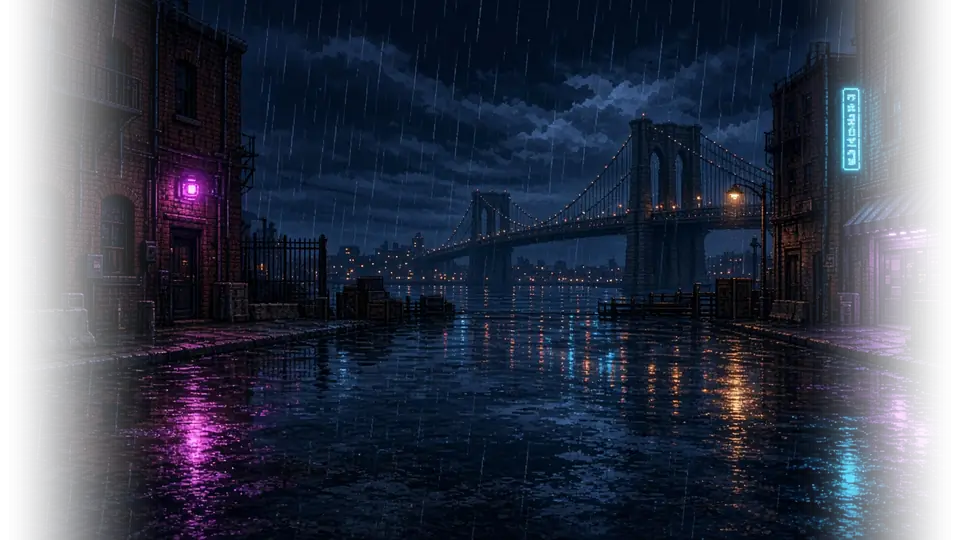
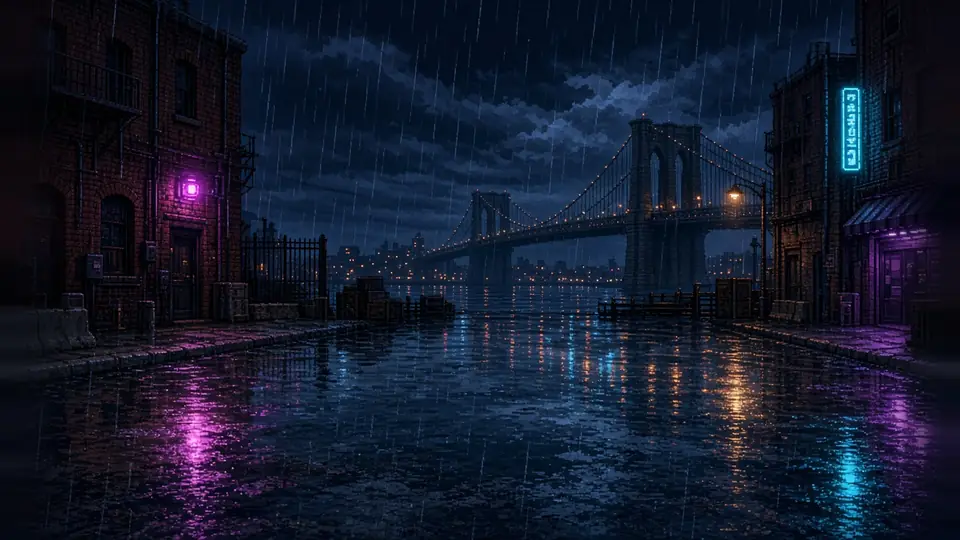
Fix AI-plate seams: tone-matched haze fade instead of crossfade ghosting; lift dark floors (airfield, canopy, waterfall, reptile) + lane light; QA tools + tests

Changed region(s): [[0.8438, 0.0, 1.0, 1.0], [0.0, 0.0, 0.1562, 1.0], [0.625, 0.6815, 0.6562, 0.7111]]

diff --git a/js/bgscreens.js b/js/bgscreens.js
@@ -27,7 +27,7 @@ export const SCREENS = {
       { name: 'Food Court', top: rgb(255, 232, 208), bot: rgb(255, 238, 218), warm: [255, 150, 40, 0.06], lm: [['stand', 40, '#e0a020', '#fff2d0', 'FOOD'], ['stand', 150, '#c8321e', '#f2e6c8', 'DRINKS'], ['bench', 250], ['lights', 20, 300, 66]], lights: [[60, 62, 26, [255, 190, 90], 1], [170, 62, 26, [255, 190, 90], 1]] },
       { name: 'Lion House', plate: 'zoo-lion', top: rgb(228, 196, 232), bot: rgb(238, 224, 236), lm: [['bench', 236]], lights: [], },
       { name: 'Primate World', top: rgb(190, 184, 232), bot: rgb(214, 214, 240), stars: 0.35, lm: [['tree', 40, 70], ['tree', 280, 78], ['sign', 150, 'PRIMATE WORLD', '#2a5a30', '#d8ffb0'], ['bush', 220, 22, '#1a4a30']], lights: [] },
-      { name: 'Night Path', plate: 'zoo-reptile', top: rgb(120, 128, 196), bot: rgb(158, 168, 214), stars: 0.9, fog: 0.22, lm: [['bush', 26, 26, '#142e24'], ['bush', 296, 24, '#142e24']], lights: [] },
+      { name: 'Night Path', plate: 'zoo-reptile', lift: 0.08, top: rgb(120, 128, 196), bot: rgb(158, 168, 214), stars: 0.9, fog: 0.22, lm: [['bush', 26, 26, '#142e24'], ['bush', 296, 24, '#142e24']], lights: [] },
       { name: 'Zoo Exit', top: rgb(92, 104, 176), bot: rgb(140, 152, 204), stars: 1, fog: 0.3, warm: [255, 40, 60, 0.04], lm: [['bus', 220], ['sign', 70, 'EXIT', '#7a1a1a', '#ffe6e0'], ['lamp', 20, '#ff9a7a'], ['cone', 150], ['cone', 168]], lights: [[20, 70, 30, [255, 150, 120], 1]], siren: 1 },
     ],
   },
@@ -63,7 +63,7 @@ export const SCREENS = {
       { name: 'Motor Pool', top: rgb(255, 214, 196), bot: rgb(255, 226, 210), lm: [['jeep', 60], ['drums', 190, 3], ['sign', 262, 'MOTOR POOL', '#3a3a20', '#ffe6a0']], lights: [], beams: 0.4 },
       { name: 'Barracks', top: rgb(238, 190, 180), bot: rgb(246, 214, 204), lm: [['tent', 30, 78], ['tent', 150, 70], ['tent', 262, 74]], lights: [[70, 90, 24, [255, 200, 110], 1]], beams: 0.6, stars: 0.2 },
       { name: 'Fuel Depot', top: rgb(210, 160, 170), bot: rgb(226, 196, 196), lm: [['tank', 40], ['drums', 140, 5], ['sign', 232, 'FUEL', '#6a1a10', '#ffe0a0'], ['wire', 270]], lights: [], beams: 0.8, stars: 0.4 },
-      { name: 'Airfield', plate: 'base-airfield', top: rgb(160, 130, 170), bot: rgb(196, 176, 196), stars: 0.55, lm: [['sandbags', 230, 3]], lights: [], beams: 0.9 },
+      { name: 'Airfield', plate: 'base-airfield', lift: 0.13, top: rgb(160, 130, 170), bot: rgb(196, 176, 196), stars: 0.55, lm: [['sandbags', 230, 3]], lights: [], beams: 0.9 },
       { name: 'Wire Line', top: rgb(130, 112, 160), bot: rgb(176, 160, 186), stars: 0.7, fog: 0.2, lm: [['wire', 10], ['wire', 120], ['sign', 232, 'KEEP OUT', '#7a1010', '#ffffff'], ['sandbags', 290, 3]], lights: [], beams: 1 },
       { name: 'Bunker Row', top: rgb(106, 100, 150), bot: rgb(156, 150, 180), stars: 0.85, fog: 0.26, lm: [['bunker', 20], ['bunker', 170], ['lamp', 300, '#ff9a7a']], lights: [[300, 70, 30, [255, 150, 120], 1]], beams: 1 },
       { name: 'Command HQ', top: rgb(86, 84, 140), bot: rgb(140, 138, 176), stars: 1, fog: 0.3, warm: [255, 30, 40, 0.05], lm: [['hq', 30], ['flag', 210], ['sandbags', 270, 4]], lights: [[120, 60, 40, [255, 90, 90], 1]], beams: 1, siren: 1 },
@@ -76,9 +76,9 @@ export const SCREENS = {
       { name: 'Vine Thicket', top: rgb(190, 215, 175), bot: rgb(220, 235, 210), motes: 0.4, lm: [['vines', 20, 8], ['vines', 100, 6], ['vines', 200, 9], ['fern', 150], ['fern', 290]], lights: [] },
       { name: 'River Ford', top: rgb(175, 210, 215), bot: rgb(210, 232, 232), fog: 0.3, lm: [['rocks', 40], ['water', 120, 130], ['rocks', 270]], lights: [] },
       { name: 'Old Ruins', top: rgb(215, 215, 175), bot: rgb(232, 230, 200), lm: [['pillar', 30, 96], ['pillar', 100, 70], ['totem', 220], ['fern', 290]], lights: [[220, 70, 30, [255, 220, 120], 1]] },
-      { name: 'Dark Canopy', plate: 'jungle-canopy', top: rgb(120, 160, 130), bot: rgb(166, 196, 164), fog: 0.2, motes: 0.9, lm: [['fern', 30], ['fern', 290]], lights: [], flies: 1 },
+      { name: 'Dark Canopy', plate: 'jungle-canopy', lift: 0.12, top: rgb(120, 160, 130), bot: rgb(166, 196, 164), fog: 0.2, motes: 0.9, lm: [['fern', 30], ['fern', 290]], lights: [], flies: 1 },
       { name: 'Glow Cave', top: rgb(110, 140, 170), bot: rgb(160, 186, 196), fog: 0.25, motes: 0.7, lm: [['glowflower', 30], ['glowflower', 90], ['glowflower', 200], ['glowflower', 270], ['rocks', 150]], lights: [[34, 112, 28, [140, 220, 255], 1], [94, 112, 28, [200, 150, 255], 1], [204, 112, 28, [140, 220, 255], 1], [274, 112, 28, [200, 150, 255], 1]], flies: 1 },
-      { name: 'Waterfall Mist', plate: 'jungle-waterfall', top: rgb(190, 225, 235), bot: rgb(215, 238, 240), fog: 0.22, lm: [['rocks', 300]], lights: [] },
+      { name: 'Waterfall Mist', plate: 'jungle-waterfall', lift: 0.08, top: rgb(190, 225, 235), bot: rgb(215, 238, 240), fog: 0.22, lm: [['rocks', 300]], lights: [] },
       { name: 'Temple Approach', top: rgb(246, 226, 160), bot: rgb(250, 238, 200), warm: [255, 200, 60, 0.06], motes: 0.6, lm: [['totem', 30], ['totem', 270], ['pillar', 150, 100]], lights: [[160, 60, 50, [255, 210, 110], 1]] },
       { name: 'Home Clearing', top: rgb(255, 238, 190), bot: rgb(255, 246, 214), warm: [255, 210, 90, 0.09], motes: 0.8, lm: [['fern', 20], ['fern', 120], ['fern', 220], ['fern', 300], ['sign', 150, 'HOME', '#4a3a10', '#ffe890']], lights: [[160, 50, 60, [255, 230, 130], 1]] },
     ],
@@ -104,7 +104,7 @@ export function lookAt(kind, stops, cam) {
   const S = SCREENS[kind].screens, { i, j, t } = screenPos(stops, cam), a = S[i], b = S[j];
   const w = (x, y) => lerp(x || 0, y || 0, t), wa = a.warm || [0, 0, 0, 0], wb = b.warm || [0, 0, 0, 0];
   return { i, j, t, top: lerp3(a.top, b.top, t), bot: lerp3(a.bot, b.bot, t), warm: [lerp(wa[0], wb[0], t), lerp(wa[1], wb[1], t), lerp(wa[2], wb[2], t), w(wa[3], wb[3])],
-    fog: w(a.fog, b.fog), stars: w(a.stars, b.stars), rain: w(a.rain, b.rain), motes: w(a.motes, b.motes), beams: w(a.beams, b.beams), siren: w(a.siren, b.siren), flies: w(a.flies, b.flies), blink: w(a.blink, b.blink) };
+    fog: w(a.fog, b.fog), stars: w(a.stars, b.stars), rain: w(a.rain, b.rain), motes: w(a.motes, b.motes), beams: w(a.beams, b.beams), siren: w(a.siren, b.siren), flies: w(a.flies, b.flies), blink: w(a.blink, b.blink), lift: w(a.lift, b.lift) };
 }
 /** Stable signature of a screen's look, used by tests to count distinct looks. */
 export function signature(kind, idx, stops) {

diff --git a/js/bg.js b/js/bg.js
@@ -31,11 +31,31 @@ function plate(ctx, im, kind, cam) {
     });
   }
 }
-/** AI-painted plate for a landmark screen: drawn over the stage plate at its camera stop, soft-faded at both edges (baked alpha). */
+/** Haze strip that the neighbouring (old) plate fades into just outside an AI plate's edge: the plate's own per-row edge colour,
+ * alpha ramping 0 -> HAZE_A towards the edge. The plate itself ramps out of the same colour (baked in), so a slide goes
+ * old plate -> haze -> new plate with no two scenes overlapping (no ghosting). */
+const HZ = 30, HAZE_A = 0.94, hazeCache = {};
+function hazeStrip(kind, name, side) {
+  const key = kind + name + side; if (hazeCache[key]) return hazeCache[key];
+  const rows = A.bgMeta[kind].haze[name][side], n = rows.length, t = document.createElement('canvas'); t.width = 1; t.height = n;
+  const tc = t.getContext('2d'), id = tc.createImageData(1, n); rows.forEach((c, i) => { id.data.set([c[0], c[1], c[2], 255], i * 4); }); tc.putImageData(id, 0, 0);
+  const c = document.createElement('canvas'); c.width = HZ; c.height = 180; const g = c.getContext('2d'); g.imageSmoothingEnabled = true; g.drawImage(t, 0, 0, 1, n, 0, 0, HZ, 180);
+  const gr = g.createLinearGradient(0, 0, HZ, 0), e = side === 'l' ? 1 : 0; // alpha is highest at the plate edge
+  for (let i = 0; i <= 8; i++) { const u = i / 8, s = u * u * (3 - 2 * u); gr.addColorStop(u, `rgba(0,0,0,${HAZE_A * (e ? s : 1 - s)})`); }
+  g.globalCompositeOperation = 'destination-in'; g.fillStyle = gr; g.fillRect(0, 0, HZ, 180);
+  return hazeCache[key] = c;
+}
+/** AI-painted plate for a landmark screen: drawn over the stage plate at its camera stop. Its edges ramp out of a haze colour
+ * (baked), and the neighbouring plate is hazed over to the same colour right outside the edge. */
 function featured(ctx, L, kind, stops, cam) {
   if (!L.x) return;
   const scr = SCREENS[kind].screens;
-  for (let i = 0; i < stops.length; i++) { const p = scr[i].plate; if (!p || !L.x[p]) continue; const x = stops[i] - cam; if (x > W || x + TILE_W < 0) continue; ctx.drawImage(L.x[p], Math.round(x * S) / S, 0, TILE_W, 180); }
+  for (let i = 0; i < stops.length; i++) {
+    const p = scr[i].plate; if (!p || !L.x[p]) continue; const x = stops[i] - cam; if (x > W + HZ || x + TILE_W + HZ < 0) continue;
+    const xr = Math.round(x * S) / S;
+    ctx.drawImage(hazeStrip(kind, p, 'l'), xr - HZ, 0); ctx.drawImage(hazeStrip(kind, p, 'r'), xr + TILE_W, 0);
+    ctx.drawImage(L.x[p], xr, 0, TILE_W, 180);
+  }
 }
 const stopsCache = new WeakMap();
 const stopsFor = st => stopsCache.get(st) || (stopsCache.set(st, stopsOf(st)), stopsCache.get(st));

diff --git a/js/bgdraw.js b/js/bgdraw.js
@@ -99,6 +99,10 @@ export function drawGrade(ctx, kind, stops, cam, t, look) {
     ctx.globalCompositeOperation = 'multiply'; ctx.fillStyle = gr; ctx.fillRect(0, 0, 320, 180); ctx.globalCompositeOperation = 'source-over';
   }
   if (look.warm[3] > 0.004) { ctx.globalCompositeOperation = 'lighter'; ctx.fillStyle = `rgba(${look.warm[0] | 0},${look.warm[1] | 0},${look.warm[2] | 0},${look.warm[3]})`; ctx.fillRect(0, 0, 320, 180); ctx.globalCompositeOperation = 'source-over'; }
+  if (look.lift > 0.01) { // soft light across the walk band so heroes and enemies stand out against dark floors (peaks mid-lane, fades above/below)
+    const gr = ctx.createLinearGradient(0, lane[0] - 14, 0, lane[1] + 8); gr.addColorStop(0, 'rgba(255,238,215,0)'); gr.addColorStop(0.5, `rgba(255,238,215,${look.lift})`); gr.addColorStop(1, 'rgba(255,238,215,0)');
+    ctx.globalCompositeOperation = 'lighter'; ctx.fillStyle = gr; ctx.fillRect(0, lane[0] - 14, 320, lane[1] - lane[0] + 22); ctx.globalCompositeOperation = 'source-over';
+  }
   if (look.stars > 0.02) { ctx.fillStyle = '#fff'; for (let i = 0; i < 28; i++) { const px = ((hash(i) * 400 - cam * 0.08) % 320 + 320) % 320, py = 4 + hash(i + 99) * 56; ctx.globalAlpha = look.stars * (0.35 + 0.65 * Math.abs(Math.sin(t * 1.6 + i))) ; ctx.fillRect(Math.round(px), Math.round(py), 1, 1); } ctx.globalAlpha = 1; }
   if (look.beams > 0.02 && kind === 'base') { ctx.globalCompositeOperation = 'lighter'; for (let b = 0; b < 2; b++) { const bx = ((b ? 250 : 60) + b * 40 - cam * 0.2 % 640 + 640) % 640 - 160, a = Math.sin(t * 0.7 + b * 2) * 0.35; ctx.fillStyle = `rgba(255,250,200,${0.13 * look.beams})`; ctx.beginPath(); ctx.moveTo(bx - 2, 44); ctx.lineTo(bx + Math.sin(a) * 130 - 14, -8); ctx.lineTo(bx + Math.sin(a) * 130 + 14, -8); ctx.lineTo(bx + 2, 44); ctx.fill(); } ctx.globalCompositeOperation = 'source-over'; }
   // lights of nearby screens (flicker a little), added after the grade so they stay bright

diff --git a/tests/bgscreens.test.js b/tests/bgscreens.test.js
@@ -53,3 +53,12 @@ test('AI plate assets total under 1.5 MB', () => {
   let n = 0; for (const f of fs.readdirSync(new URL('../assets/bg/', import.meta.url))) if (f.startsWith('x_')) n += fs.statSync(new URL(`../assets/bg/${f}`, import.meta.url)).size;
   assert.ok(n < 1.5 * 1024 * 1024, n);
 });
+
+test('every AI plate has per-row haze colours for both edges (tone-matched fade, no crossfade ghosting) and sane floor lift', () => {
+  const meta = JSON.parse(fs.readFileSync(new URL('../assets/bg/bg.json', import.meta.url)));
+  for (const kind of Object.keys(SCREENS)) for (const s of SCREENS[kind].screens) if (s.plate) {
+    const h = meta[kind].haze?.[s.plate]; assert.ok(h && h.l.length >= 16 && h.r.length === h.l.length, s.plate + ' haze');
+    for (const c of [...h.l, ...h.r]) assert.ok(c.length === 3 && c.every(v => v >= 0 && v <= 255), s.plate + ' haze colour');
+  }
+  for (const [kind, n] of [['base', 'Airfield'], ['jungle', 'Dark Canopy']]) assert.ok(SCREENS[kind].screens.find(s => s.name === n).lift > 0.05, n + ' lift');
+});

diff --git a/tools/ai-art/build_bg.py b/tools/ai-art/build_bg.py
@@ -51,20 +51,45 @@ EXTRA = {
     'base-airfield':    ('base',   0.765),
     'jungle-waterfall': ('jungle', 0.82),  'jungle-canopy':    ('jungle', 0.78),
 }
-FEATHER_X = 168   # device px (56 logic px) soft edge each side
 FLOOR_LIFT = 10   # logic px the plate floor top sits above lane top
+ZONE = 90         # device px (30 logic px): the plate edge ramps out of a matching haze colour over this width
+HAZE_ROWS = 45    # per-row haze colour samples stored in bg.json (runtime fades the neighbouring plate into the same haze)
+# Mean floor luminance (0-255) each plate's walk band is lifted to, so heroes/enemies read against it (stage floors sit at ~25-110).
+FLOOR_LUM = {'zoo-lion': 66, 'zoo-reptile': 72, 'city-stores': 30, 'city-bridge': 34, 'fbi-server': 96, 'fbi-archive': 114,
+             'base-airfield': 84, 'jungle-waterfall': 66, 'jungle-canopy': 78}
+LUMW = np.array([0.2126, 0.7152, 0.0722])
+def lift_floor(a, y0, y1, target):
+    """Raise shadows of rows y0.. with a power curve (keeps hue) until the band's mean luminance reaches target; soft ramp at the top."""
+    f = a.astype(np.float32) / 255; band = slice(y0, y1)
+    if (f[band] @ LUMW).mean() * 255 >= target: return a
+    lo, hi = 0.3, 1.0
+    for _ in range(24):
+        g = (lo + hi) / 2
+        if ((f[band] ** g) @ LUMW).mean() * 255 > target: lo = g
+        else: hi = g
+    out = f ** hi; ramp = np.clip((np.arange(a.shape[0]) - (y0 - 24)) / 24, 0, 1)[:, None, None]
+    return (np.clip(f * (1 - ramp) + out * ramp, 0, 1) * 255).astype(np.uint8)
 total = 0
 for name, (stage, F) in EXTRA.items():
     src = Image.open(f'{SRC}/bgx/{name}.jpg').convert('RGB')
-    sh = src.height; lane_top = meta[stage]['lane'][0]
+    sh = src.height; lane_top, lane_bot = meta[stage]['lane']
     T = (lane_top - FLOOR_LIFT) * 3  # target floor-top row in the 540px output
     fy = int(round(F * sh)); top = src.crop((0, 0, src.width, fy)).resize((W, T), Image.LANCZOS)
     bot = src.crop((0, fy, src.width, sh)).resize((W, H - T), Image.LANCZOS)
     a = np.concatenate([np.array(top), np.array(bot)], 0)
-    t = np.clip(np.arange(W) / FEATHER_X, 0, 1); t = np.minimum(t, t[::-1]); al = (t * t * (3 - 2 * t) * 255).astype(np.uint8)
-    rgba = np.dstack([a, np.tile(al, (H, 1))])
-    f = f'{OUT}/x_{name}.webp'; Image.fromarray(rgba).save(f, quality=72, alpha_quality=80, method=6)
+    a = lift_floor(a, lane_top * 3, min(H, lane_bot * 3 + 10), FLOOR_LUM[name])
+    # per-row haze colour of each side (edge columns, vertically blurred), then ramp the plate edge out of it (tone-matched fade)
+    k = np.ones(15) / 15; hz = {}
+    for side, cols in (('l', a[:, :12]), ('r', a[:, -12:])):
+        c = cols.astype(np.float32).mean(1); c = np.stack([np.convolve(np.pad(c[:, j], 7, mode='edge'), k, 'valid') for j in range(3)], 1)
+        hz[side] = c
+    t = np.clip(np.arange(W) / ZONE, 0, 1); t = np.minimum(t, t[::-1]); sm = (t * t * (3 - 2 * t))[None, :, None]
+    left = hz['l'][:, None, :]; right = hz['r'][:, None, :]; sidew = (np.arange(W) < W / 2)[None, :, None]
+    haze = np.where(sidew, left, right)
+    out = np.clip(a.astype(np.float32) * sm + haze * (1 - sm), 0, 255).astype(np.uint8)
+    f = f'{OUT}/x_{name}.webp'; Image.fromarray(out).save(f, quality=72, method=6)
     meta[stage].setdefault('extra', []).append(name); total += os.path.getsize(f)
+    meta[stage].setdefault('haze', {})[name] = {s: [[int(v) for v in hz[s][r]] for r in np.linspace(0, H - 1, HAZE_ROWS).astype(int)] for s in 'lr'}
     print(name, os.path.getsize(f) // 1024, 'KB')
 print('extras total', total // 1024, 'KB')
 json.dump(meta, open(f'{OUT}/bg.json', 'w'))

diff --git a/tools/qa-bg-pairs.py b/tools/qa-bg-pairs.py
@@ -1,0 +1,33 @@
+# Mid-slide shots of every adjacent screen pair in all 5 stages (cam half-way between two stops) plus both edge crossings of each AI plate
+# (plate edge in the middle of the view = worst case for ghosting). Also measures floor-vs-hero luminance contrast.
+import asyncio, sys, os, json
+from playwright.async_api import async_playwright
+from PIL import Image
+OUT = sys.argv[1]; URL = sys.argv[2]; os.makedirs(OUT, exist_ok=True)
+FEAT = {0: [2, 4], 1: [2, 4], 2: [4, 5], 3: [4], 4: [4, 6]}
+async def main():
+    res = {}
+    async with async_playwright() as pw:
+        b = await pw.chromium.launch()
+        for si in range(5):
+            ctx = await b.new_context(viewport={'width': 844, 'height': 390}, has_touch=True, is_mobile=True)
+            pg = await ctx.new_page(); await pg.goto(f'{URL}/?skipintro&god&debugstart&nosave&stage={si}'); await pg.wait_for_function('window.__game&&window.__game.mode')
+            await pg.evaluate("window.__game.mode='play'")
+            stops = await pg.evaluate("(()=>{const st=window.__stages[window.__game.stage];return [0,...st.events.map(e=>e.at),st.length-320]})()")
+            async def shot(x, f):
+                await pg.evaluate(f"(()=>{{const G=window.__game;G.cam={x};G.lock={x};G.evIdx=99;G.ents=[];G.boss=null;G.bossSpawned=true;G.p.x={x}+110;G.p.y=150}})()")
+                await pg.wait_for_timeout(180); await pg.screenshot(path=f)
+            pf = []
+            for i in range(len(stops) - 1):
+                f = f'{OUT}/pair_s{si+1}_{i+1}-{i+2}.png'; await shot((stops[i] + stops[i + 1]) / 2, f); pf.append(f)
+            for i in FEAT[si]:
+                for k, d in (('in', -160), ('out', 160)):
+                    f = f'{OUT}/edge_s{si+1}_{i+1}_{k}.png'; await shot(stops[i] + d, f); pf.append(f)
+            ims = [Image.open(f).resize((422, 195)) for f in pf]; cols = 3; rows = (len(ims) + 2) // 3
+            sh = Image.new('RGB', (422 * cols, 195 * rows)); [sh.paste(im, ((n % cols) * 422, (n // cols) * 195)) for n, im in enumerate(ims)]
+            sh.save(f'{OUT}/seams_stage{si+1}.png')
+            res[si] = stops
+            await ctx.close()
+        await b.close()
+    json.dump(res, open(f'{OUT}/stops.json', 'w'))
+asyncio.run(main())

diff --git a/tools/qa-floor-contrast.py b/tools/qa-floor-contrast.py
@@ -1,0 +1,13 @@
+# Mean luminance of the walk band (hero columns excluded) in 844x390 screenshots of each AI-plate screen: python3 qa-floor-contrast.py <dir> [<dir>...]
+import sys, numpy as np
+from PIL import Image
+lane = {1: (124, 172), 2: (116, 166), 3: (122, 174), 4: (118, 176), 5: (130, 176)}
+feat = {1: [3, 5], 2: [3, 5], 3: [5, 6], 4: [5], 5: [5, 7]}
+for d in sys.argv[1:]:
+    print(d)
+    for s, fl in feat.items():
+        nm = ['zoo', 'street', 'office', 'base', 'jungle'][s - 1]
+        for i in fl:
+            a = np.array(Image.open(f'{d}/{nm}_{i:02d}.png').convert('RGB')).astype(float); y0, y1 = int(lane[s][0] * 390 / 180), int(lane[s][1] * 390 / 180)
+            px = np.concatenate([a[y0:y1, 80:380].reshape(-1, 3), a[y0:y1, 640:760].reshape(-1, 3)])
+            print('  ', nm, i, round(float((px @ [0.2126, 0.7152, 0.0722]).mean()), 1))
